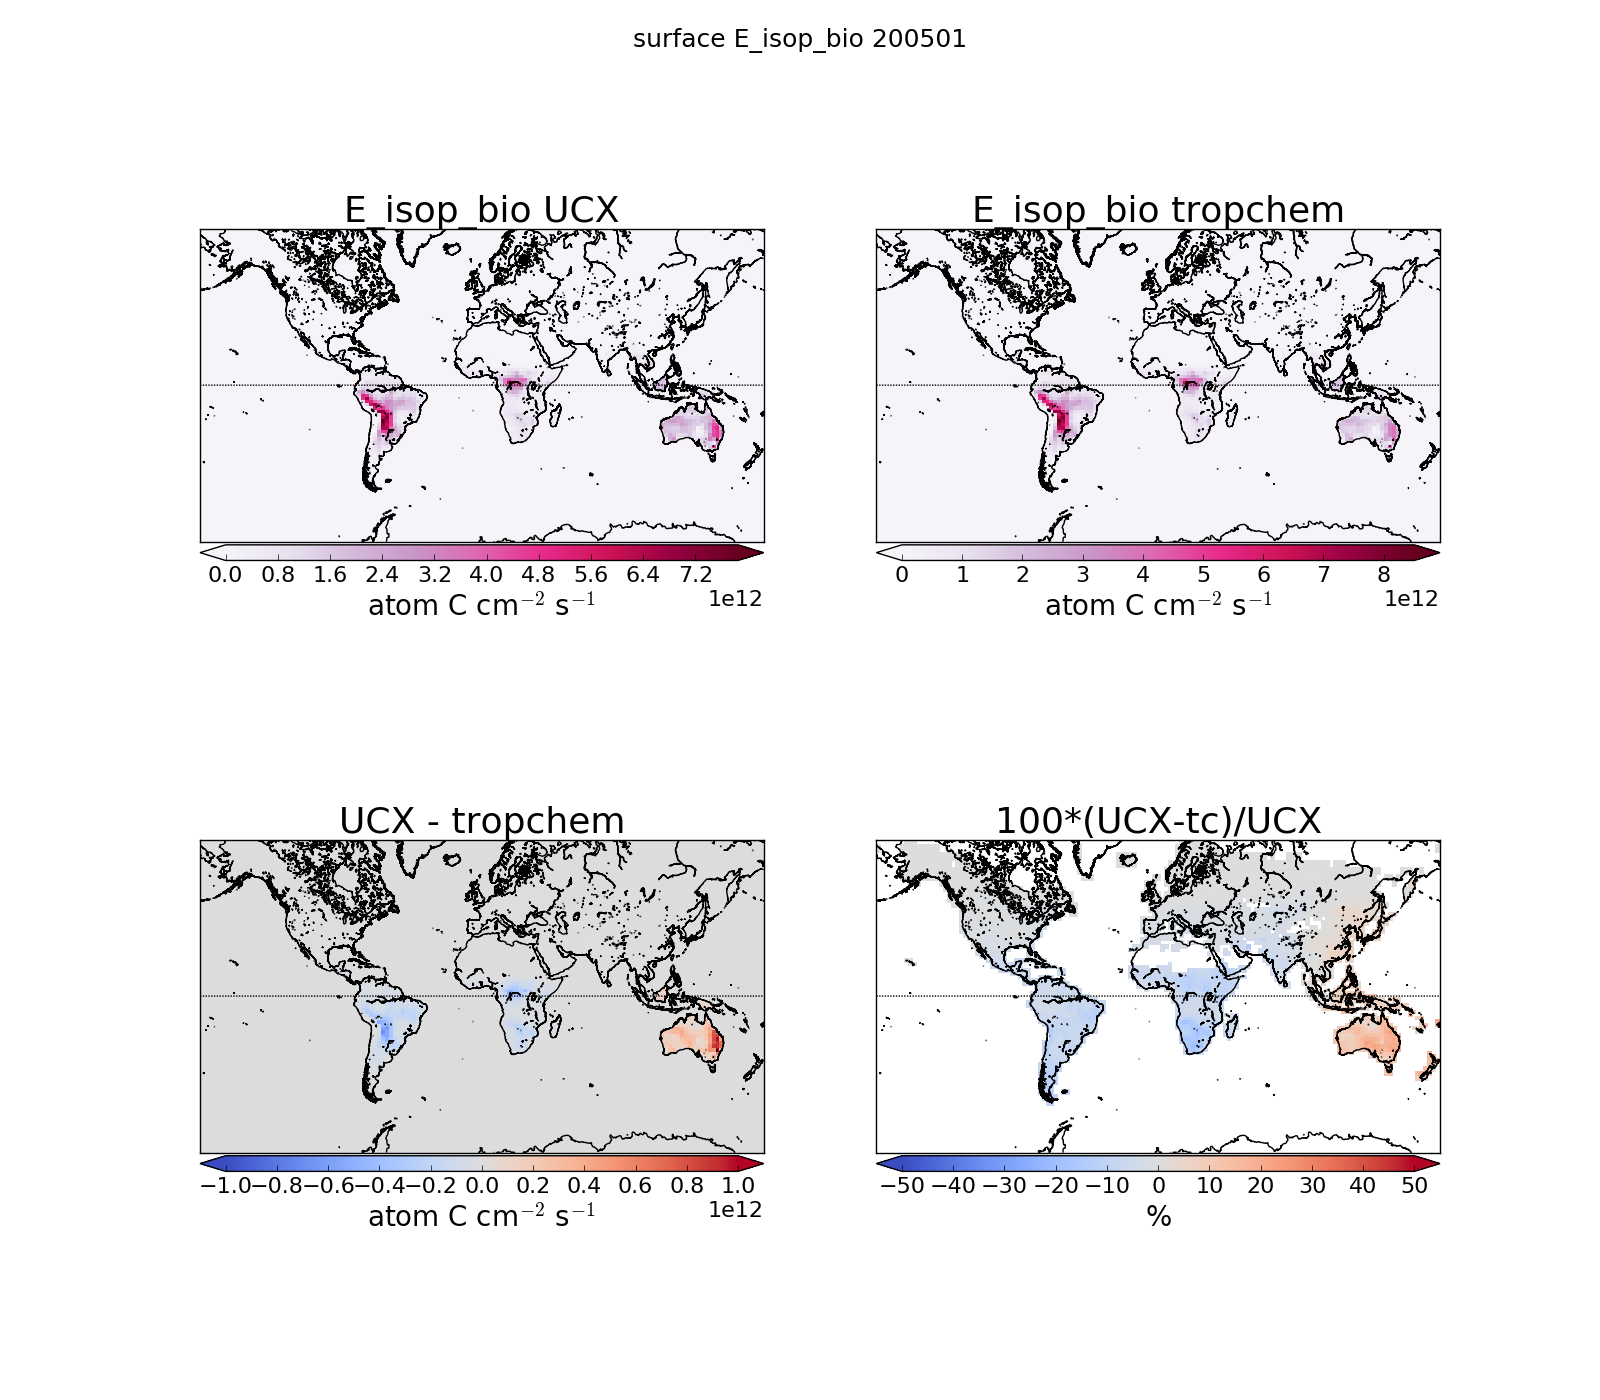
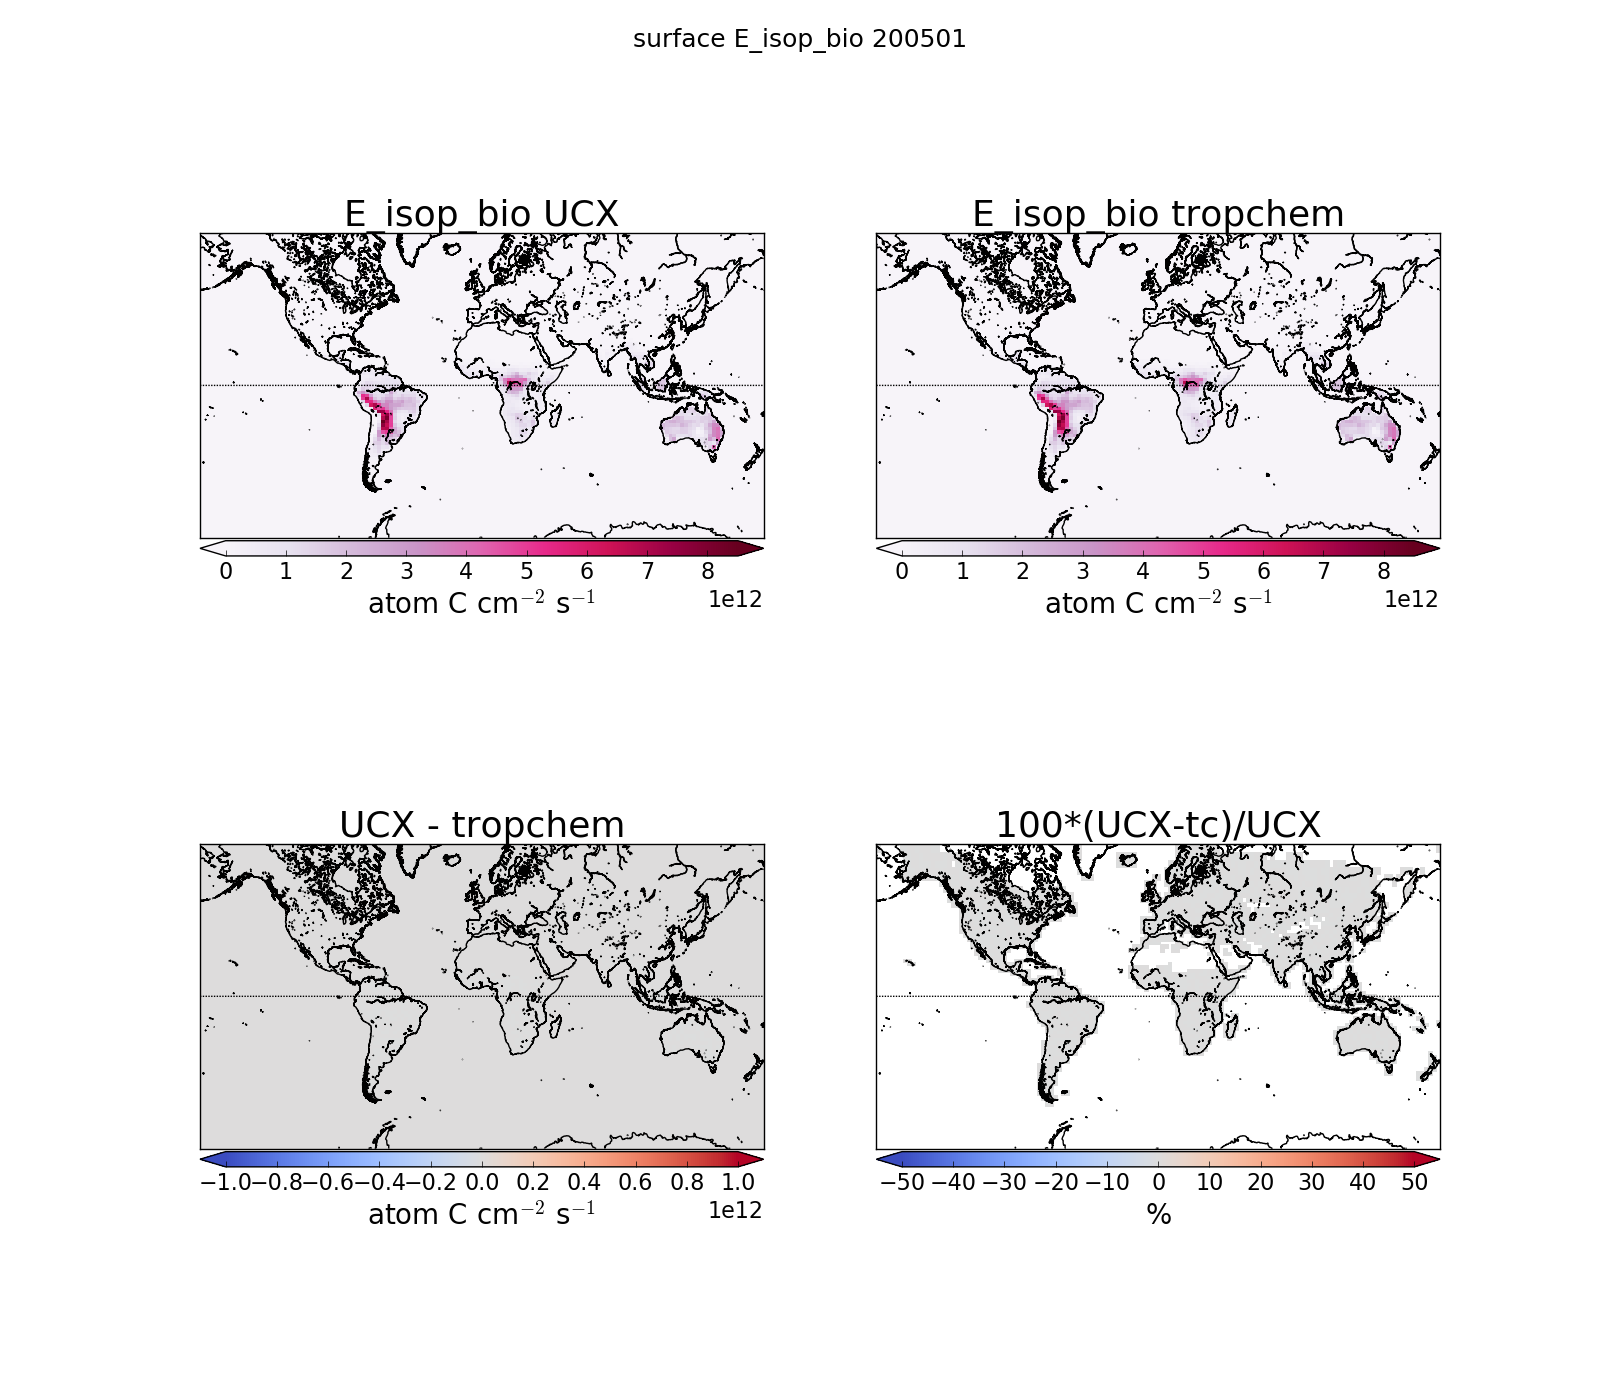
Updated trp vs ucx test and figures

diff --git a/GC_tests.py b/GC_tests.py
@@ -64,23 +64,35 @@ def check_tropchem_monthly():
     
     # Also compare against UCX month average?
 
-def compare_tc_ucx():
+def compare_tc_ucx(date=datetime(2005,1,1),extra=False,fnames=None,suffix=None):
     '''
-        Check UCX vs Tropchem from special 200501 runs
+        Check UCX vs Tropchem
+        set Extra to true to look at E_isop_biog and OH (uses specific output file 20050101
+        set fnames=[tropchem.nc,ucx.nc] outputs to test specific files
     '''
+    ymstr=date.strftime("%Y%m")
     region=pp.__GLOBALREGION__
-    date=datetime(2005,1,1)
-    # read two files directly
-    #ucx=get_UCX_data(test=True)
-    #trp=get_tropchem_data(monthavg=True, test=True)
     
     # Read the netcdf files (output specified for this test)
-    ucx=GC_output(date,UCX=True, fname='UCX_trac_avg_20050101.nc')
-    trp=GC_output(date,UCX=False, monthavg=True, fname='trac_avg_200501_test.nc')
+    # UCX FILE:
+    #ucx=GC_output(date,UCX=True, fname='UCX_trac_avg_20050101.nc')
+    if fnames is None:
+        ucx=GC_output(date,UCX=True)
+        trp=GC_output(date,UCX=False,monthavg=True)
+    else:
+        trp_fname,ucx_fname=fnames#
+        trp=GC_output(date,UCX=False, monthavg=True, fname=trp_fname)
+        ucx=GC_output(date,UCX=True, fname=ucx_fname)
+    
     lats_all=ucx.lats
     lons_all=ucx.lons
 
-    keys=['hcho','isop','E_isop_bio','OH']
+    all_keys=['hcho','isop','E_isop_bio','OH']
+    keys=[]
+    for key in all_keys:
+        if hasattr(ucx,key):
+            keys.append(key)
+    #keys=['hcho','isop']
     units={ 'hcho'      :'ppbv',        #r'molec cm$^{-2}$',
             'E_isop_bio':r'atom C cm$^{-2}$ s$^{-1}$',
             'OH'        :r'molec cm$^{-3}$',
@@ -92,7 +104,7 @@ def compare_tc_ucx():
     for key in keys:
         cbarfmt[key]=None; cbarxtickrot[key]=None
     cbarfmt['OH']="%.1e"; cbarxtickrot['OH']=30
-
+    
     ucx_data=ucx.get_field(keys=keys,region=region)
     trp_data=trp.get_field(keys=keys,region=region)
     lats=ucx_data['lats'];lons=ucx_data['lons']
@@ -116,7 +128,8 @@ def compare_tc_ucx():
         #data['ucx'] = ucx.get_trop_columns(keys=keys)
 
         # Plot values and differences for each key
-        pname='Figs/GC/UCX_vs_trp_glob_%s.png'%key
+        suffix=[suffix,''][suffix is None]
+        pname='Figs/GC/UCX_vs_trp_glob_%s_%s%s.png'%(trp.dstr,key,suffix)
         u=dats[0];t=dats[1]
         amin,amax = alims[key]
         rmin,rmax = rlims[key]
@@ -143,77 +156,6 @@ def compare_tc_ucx():
         pp.createmap((u-t)*100.0/u, lats, lons, title="100*(UCX-tc)/UCX",
                      suptitle='%s %s %s'%('surface', key, trp.dstr), pname=pname, **args)
 
-
-def compare_tc_ucx_old(date=datetime(2005,1,1)):
-    '''
-        maps of UCX and tropchem tropospheric columns
-        Can also produce similar maps for surface values rather than column amounts
-    '''
-
-    # Read UCX and TC datasets
-    ucx=GC_output(date,UCX=True)
-    tc=GC_output(date,UCX=False)
-    lats=tc.lats
-    lons=tc.lons
-
-    # Get hcho and isop for comparisons
-    data={} # data['tc']['isop'] = molec/cm2 [lat,lon]
-
-    keys=['hcho','isop']
-    rlims={'hcho':(-20,20),'isop':(-50,100)}
-    for sf in [True,False]:
-        if sf: # surface only
-            data['tc']=tc.ppbv_to_molec_cm2(keys=keys)
-            data['ucx']=ucx.ppbv_to_molec_cm2(keys=keys)
-            for run in ['tc','ucx']:
-                for k in keys:
-                    data[run][k] = data[run][k][0,:] # surface layer only
-
-            alims={'hcho':(1e13,5e15),'isop':(1e9,5e15)}
-
-        else: # whole tropospheric column
-            data['tc']  = tc.get_trop_columns(keys=keys)
-            data['ucx'] = ucx.get_trop_columns(keys=keys)
-
-            alims={'hcho':(1e14,5e16),'isop':(1e9,5e16)}
-
-        # Mean of the month for tropchem run
-        for k in keys:
-            data['tc'][k] = np.mean(data['tc'][k], axis=2) # mean of time dim
-
-        for ii,k in enumerate(keys):
-            u=data['ucx'][k]; t=data['tc'][k]
-            if sf:
-                print("Surface only:")
-            else:
-                print("Troposphere")
-            print("%5s   |  UCX          | tropchem"%k)
-            print(" mean   | %.3e     |   %.3e"%(np.mean(u),np.mean(t)))
-            print(" min    | %.3e     |   %.3e"%(np.min(u),np.min(t)))
-            print(" max    | %.3e     |   %.3e"%(np.max(u),np.max(t)))
-            print(" std    | %.3e     |   %.3e"%(np.std(u),np.std(t)))
-
-
-            # Plot values and differences for each key
-            units=r'molec cm$^{-2}$'
-            pname='Figs/GC/UCX_vs_tropchem_%s_%s_%s'%(['trop','surf'][sf],k,tc.dstr)
-            amin,amax = alims[k]
-            rmin,rmax = rlims[k]
-            f,axes=plt.subplots(2,2,figsize=(16,14))
-            plt.sca(axes[0,0])
-            pp.createmap(u,lats,lons,aus=True,clabel=units,
-                         title="%s UCX"%k, vmin=amin, vmax=amax)
-            plt.sca(axes[0,1])
-            pp.createmap(t,lats,lons,aus=True,clabel=units,
-                         title="%s tropchem"%k, vmin=amin, vmax=amax)
-            plt.sca(axes[1,0])
-            pp.createmap(u-t,lats,lons,aus=True,clabel=units,
-                         title="UCX - tropchem", linear=True)
-            plt.sca(axes[1,1])
-            pp.createmap((u-t)*100.0/u,lats,lons, vmin=rmin,vmax=rmax,aus=True,
-                        linear=True,clabel='%',title="100*(UCX-tc)/UCX",
-                        suptitle='%s %s %s'%(['trop','surf'][sf], k, tc.dstr),
-                        pname=pname)
 
 
 def isop_hcho_RMA(gc):
@@ -359,9 +301,18 @@ def check_shapefactors(date=datetime(2005,1,1)):
 # If this script is run directly:
 if __name__=='__main__':
     pp.InitMatplotlib()
-    check_shapefactors()
+    #check_shapefactors()
     #check_tropchem_monthly()
-    #compare_tc_ucx()
+    
+    # Compare 200406
+    compare_tc_ucx(datetime(2004,6,1),fnames=['trac_avg_200406.nc','trac_avg_UCX_200406.nc'])
+    # compare 200501
+    compare_tc_ucx(datetime(2005,1,1))
+    compare_tc_ucx(datetime(2005,1,1),
+                   fnames=['trac_avg_200501_month.nc','trac_avg_UCX_200501.nc'],
+                   suffix='_rerun')
+    # compare 200506
+    compare_tc_ucx(datetime(2005,6,1))
     
     #compare_surface_tc_ucx()
     #compare_tc_ucx()

diff --git a/classes/GC_class.py b/classes/GC_class.py
@@ -42,7 +42,7 @@ sys.path.pop(0)
 #####GLOBALS######
 ##################
 
-__VERBOSE__=False # For file-wide print statements
+__VERBOSE__=True # For file-wide print statements
 
 ################
 #####CLASS######
@@ -84,7 +84,7 @@ class GC_output:
         for key in tavg_data.keys():
             setattr(self, key, tavg_data[key])
             if __VERBOSE__:
-                print("GC_output reading %s"%key)
+                print("GC_output reading %s %s"%(key,tavg_data[key].shape))
 
         # add some peripheral stuff
         self.n_lats=len(self.lats)
@@ -94,13 +94,16 @@ class GC_output:
 
         # set dates and E_dates:
         # bpch2coards messes up the taus somehow..
+        if len(self.taus.shape) == 0:
+            self.taus = np.array([float(self.taus),])
         if __VERBOSE__:
             print("Fixing stupid taus")
-            print("pre-fix: %d .. %d"%(self.taus[0],self.taus[-1]))
+            print("pre-fix: %d entries from %d .. %d"%(len(self.taus),self.taus[0],self.taus[-1]))
+            
         new_taus=np.arange(0,len(self.taus))*24+self.taus[0]
         self.taus=new_taus
         if __VERBOSE__:
-            print("post-fix: %d .. %d"%(self.taus[0],self.taus[-1]))
+            print("post-fix: %d entries from %d .. %d"%(len(self.taus),self.taus[0],self.taus[-1]))
 
         self.dates=util.date_from_gregorian(self.taus)
 
@@ -108,14 +111,15 @@ class GC_output:
         self._has_time_dim = len(self.dates) > 1
 
         # Determine emissions in kg/s from atom_C / cm2 / s
-        E=self.E_isop_bio # atom C / cm2 / s
-        SA=self.area * 1e-6  # m2 -> km2
-        # kg/atom_isop = grams/mole * mole/molec * kg/gram
-        kg_per_atom = util.isoprene_grams_per_mole * 1.0/N_avegadro * 1e-3
-        #          isop/C * cm2/km2 * km2 * kg/isop
-        conversion= 1./5.0 * 1e10 * SA * kg_per_atom
-        self.E_isop_bio_kgs=E*conversion
-
+        if hasattr(self, 'E_isop_bio'):
+            E=self.E_isop_bio # atom C / cm2 / s
+            SA=self.area * 1e-6  # m2 -> km2
+            # kg/atom_isop = grams/mole * mole/molec * kg/gram
+            kg_per_atom = util.isoprene_grams_per_mole * 1.0/N_avegadro * 1e-3
+            #          isop/C * cm2/km2 * km2 * kg/isop
+            conversion= 1./5.0 * 1e10 * SA * kg_per_atom
+            self.E_isop_bio_kgs=E*conversion
+        
         assert all(self.lats == gmao.lats_m), "LATS DON'T MATCH GMAO 2x25 MIDS"
         self.lats_e=gmao.lats_e
         assert all(self.lons == gmao.lons_m), "LONS DON'T MATCH GMAO 2x25 MIDS"
